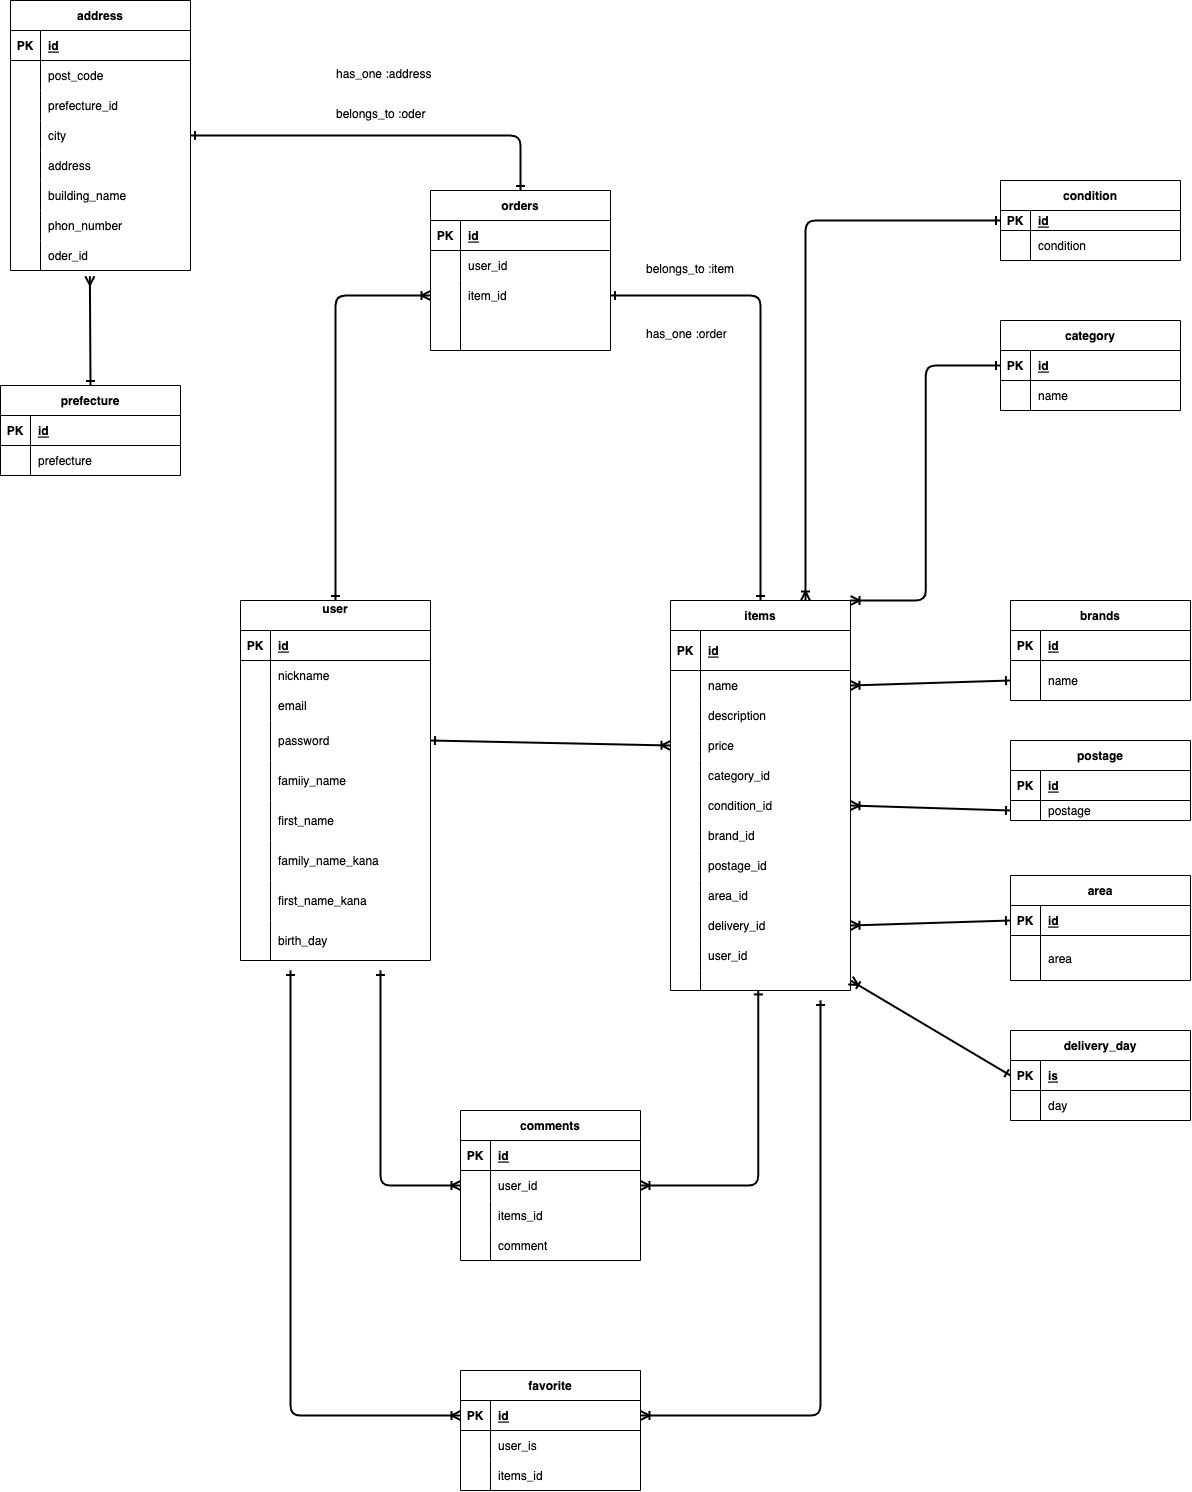
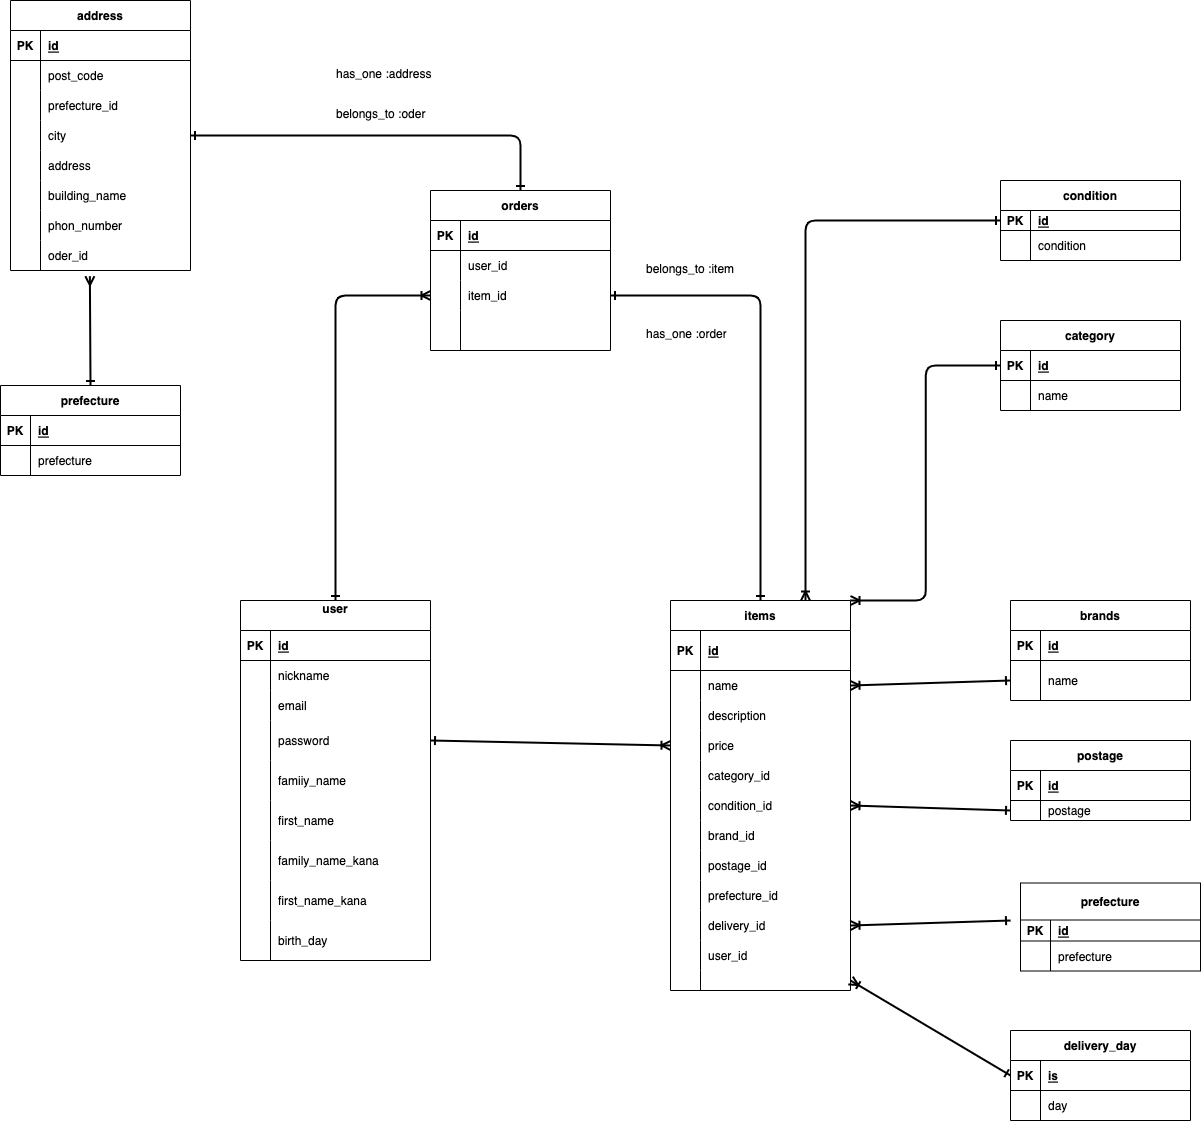
active_hasuの変更

diff --git a/README.md b/README.md
@@ -21,21 +21,19 @@ has_many :orders
 | description        | text       | null: false                    |
 | price              | integer    | null: false                    |
 | user               | references | null: false, foreign_key: true |
-| category_id        | integer    | null: false, foreign_key: true |  categoryからdelivery_dayは、active_hashを使用
-| condition_id       | integer    | null: false, foreign_key: true |
-| brand_id           | integer    | foreign_key: true              |
-| postage_id         | integer    | null: false, foreign_key: true |  
-| area_id            | integer    | null: false, foreign_key: true |
-| delivery_day_id    | integer    | null: false, foreign_key: true |
+| category_id        | integer    | null: false                    |  categoryからdelivery_dayは、active_hashを使用
+| condition_id       | integer    | null: false                    |
+| postage_id         | integer    | null: false                    |
+| prefecture_id      | integer    | null: false                    |
+| delivery_day_id    | integer    | null: false                    |
 
 ### Association
 belongs_to :user
 has_one :order
 belongs_to :category    
 belongs_to :condition        
-belongs_to :brand     
 belongs_to :postage          
-belongs_to :area             
+belongs_to :prefecture
 belongs_to :delivery_day
 
 ## orders テーブル
@@ -53,7 +51,7 @@ has_one :address
 | Column             | Type       | Options                        |
 | ------------------ | ---------- | ------------------------------ |
 | post_code          | string     | null: false                    |
-| prefecture_id      | integer    | null: false, foreign_key: true | active_hash
+| prefecture_id      | integer    | null: false                    | active_hash
 | city               | string     | null: false                    |
 | address            | string     | null: false                    |
 | building_name      | string     |                                |
